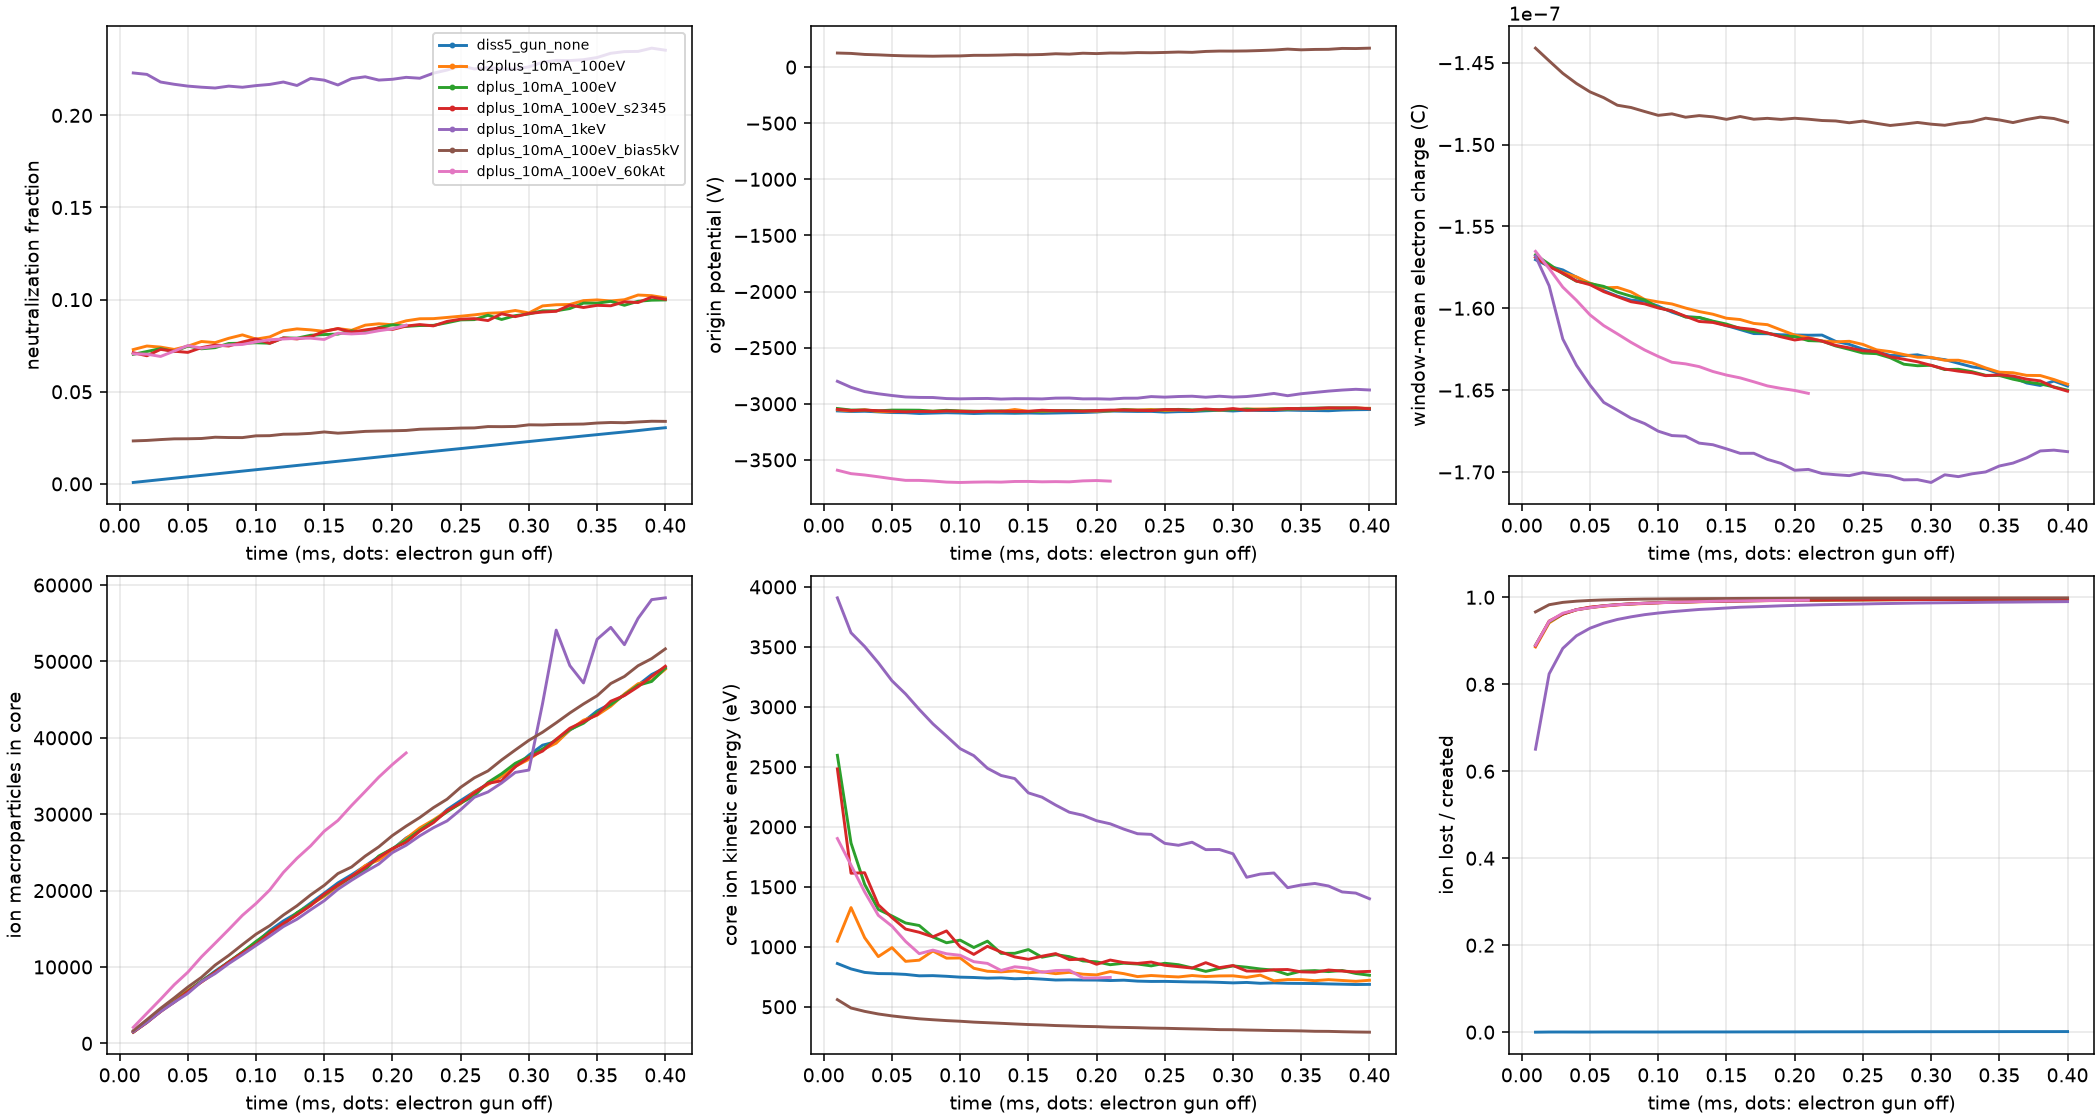
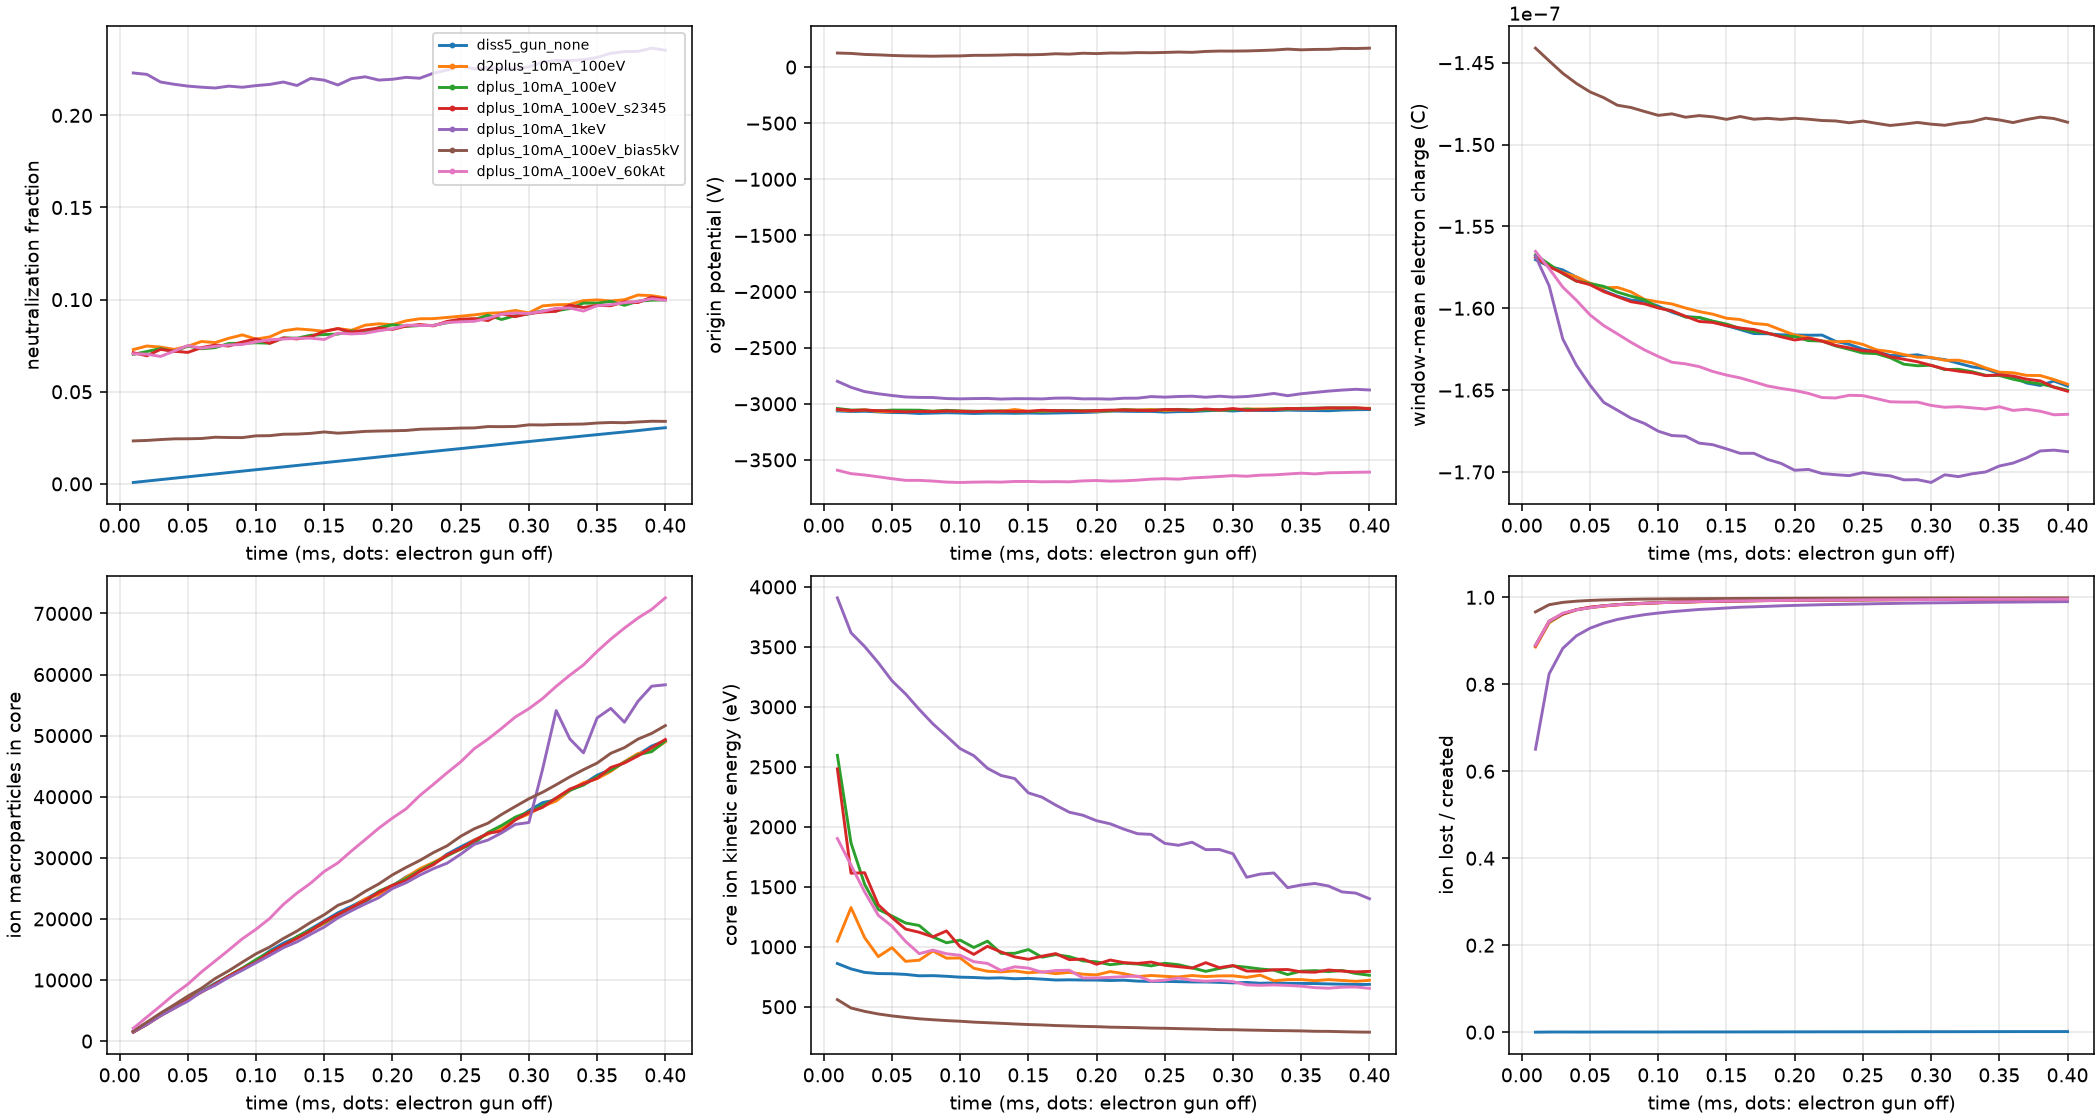
Publish complete 60 kA-turn D+ ion-gun case

diff --git a/web/src/figures.ts b/web/src/figures.ts
@@ -39,7 +39,7 @@ const studies: Study[] = [
   },
   {
     id: "six-coil-deuteron", title: "Atomic D+ ion gun at a cusp (six-coil)",
-    summary: "Same setup as the D2+ gun, 400 µs, 6 of 8 cases complete (100 mA failed the ion-step check and is rerun at 0.2 ns; 60 kA-turn still running, not shown in conclusions). A 10 mA, 100 eV D+ beam builds a +425 V mouth hill (D2+: +798 V) and still chokes: 97% leave through the top. At 1 keV D+ transits, 62% out the opposite face, 0.87% retained. +5 kV casings remove the well. Changing species does not trap gun ions in a static well.",
+    summary: "Same setup as the D2+ gun, 400 µs, 7 of 8 cases complete (100 mA failed the ion-step check and is rerun at 0.2 ns). A 10 mA, 100 eV D+ beam builds a +425 V mouth hill (D2+: +798 V) and still chokes: 97% leave through the top. At 1 keV D+ transits, 62% out the opposite face, 0.87% retained. +5 kV casings remove the well. 60 kA-turn deepens the centre 19% but leaves the mouth hill and 0.29% retention unchanged. Changing species does not trap gun ions in a static well.",
     doc: "ion-pic-design.md", figures: pair("six-coil-deuteron", "D+ ion gun"),
   },
   {

diff --git a/docs/ion-pic-design.md b/docs/ion-pic-design.md
@@ -375,10 +375,12 @@ Exit fractions count all lost ions, so the `gun_none` row is gas ions only. The 
 
 Same setup as the D2+ gun study: 1 A / 5 keV electron gun, D2 at 1e-5 Pa, 400 µs, 1 ns ion step,
 gun at the top point cusp (`0, 0, 0.7` m, aimed at the centre). Gas ionization makes D2+, with 5%
-dissociative ionization to D+ (`diss5`). Six of eight cases are complete. `dplus_100mA_100eV`
+dissociative ionization to D+ (`diss5`). Seven of eight cases are complete. `dplus_100mA_100eV`
 failed the `omega_pi * dt <= 0.1` ion-step check before writing a history and is rerun at 0.2 ns in
-`jonathan-pic-a551941178c2`. `dplus_10mA_100eV_60kAt` had reached 21/40 cycles and is not
-interpreted. Exit fractions count gun macroparticles.
+`jonathan-pic-a551941178c2`. Exit fractions count gun macroparticles. After the last case finished
+the campaign exited non-zero because of the failed case and the broker restarted the whole sweep;
+that second attempt was stopped and only the first attempt (`attempt-20260913-174029-877869917`)
+is analysed.
 
 | case | mouth hill | top face | opposite face | conductors | D+ alive / injected | core ion KE | origin |
 |---|---|---|---|---|---|---|---|
@@ -386,6 +388,7 @@ interpreted. Exit fractions count gun macroparticles.
 | D2+ 10 mA, 100 eV | +798 V | 98.7% | 0.6% | 0.4% | — | 728 eV | −3043 V |
 | D+ 10 mA, 100 eV | +425 V | 96.9% | 1.3% | 0.7% | 0.29% | 796 eV | −3043 V |
 | D+ 10 mA, 100 eV, seed 2345 | +432 V | 96.9% | 1.3% | 0.7% | 0.29% | 799 eV | −3045 V |
+| D+ 10 mA, 100 eV, 60 kA-turn | +441 V | 95.7% | 2.8% | 0.3% | 0.29% | 669 eV | −3623 V |
 | D+ 10 mA, 1 keV | +367 V | 1.0% | 62% | 23% | 0.87% | 1515 eV | −2902 V |
 | D+ 10 mA, 100 eV, +5 kV casings | casings at +5 kV | 75% | 0.4% | 4% | 0.08% | 297 eV | +157 V |
 
@@ -401,6 +404,9 @@ the casings themselves. Core ion KE is the core-time-weighted mean over all ions
   opposite face (62%) and the casings (23%). Retention is 0.87% of injected charge, against
   1–3% for the D2+ transit cases, and the centre is 5% shallower than with no gun.
 - **Casing bias removes the well**, as with D2+: the centre sits at +157 V and retention is 0.08%.
+- **Stronger coils deepen the well but do not open the gun.** At 60 kA-turn the centre is 19%
+  deeper (−3623 V), the mouth hill is unchanged (+441 V) and retention stays 0.29%. Core ions are
+  slower (669 eV) because more gas ions are born deep in the stronger electron channel.
 - **Same conclusion as D2+.** Changing the ion species does not trap gun ions in a static well;
   the phase-gated capture campaign below tests injecting while the well is down.
 
